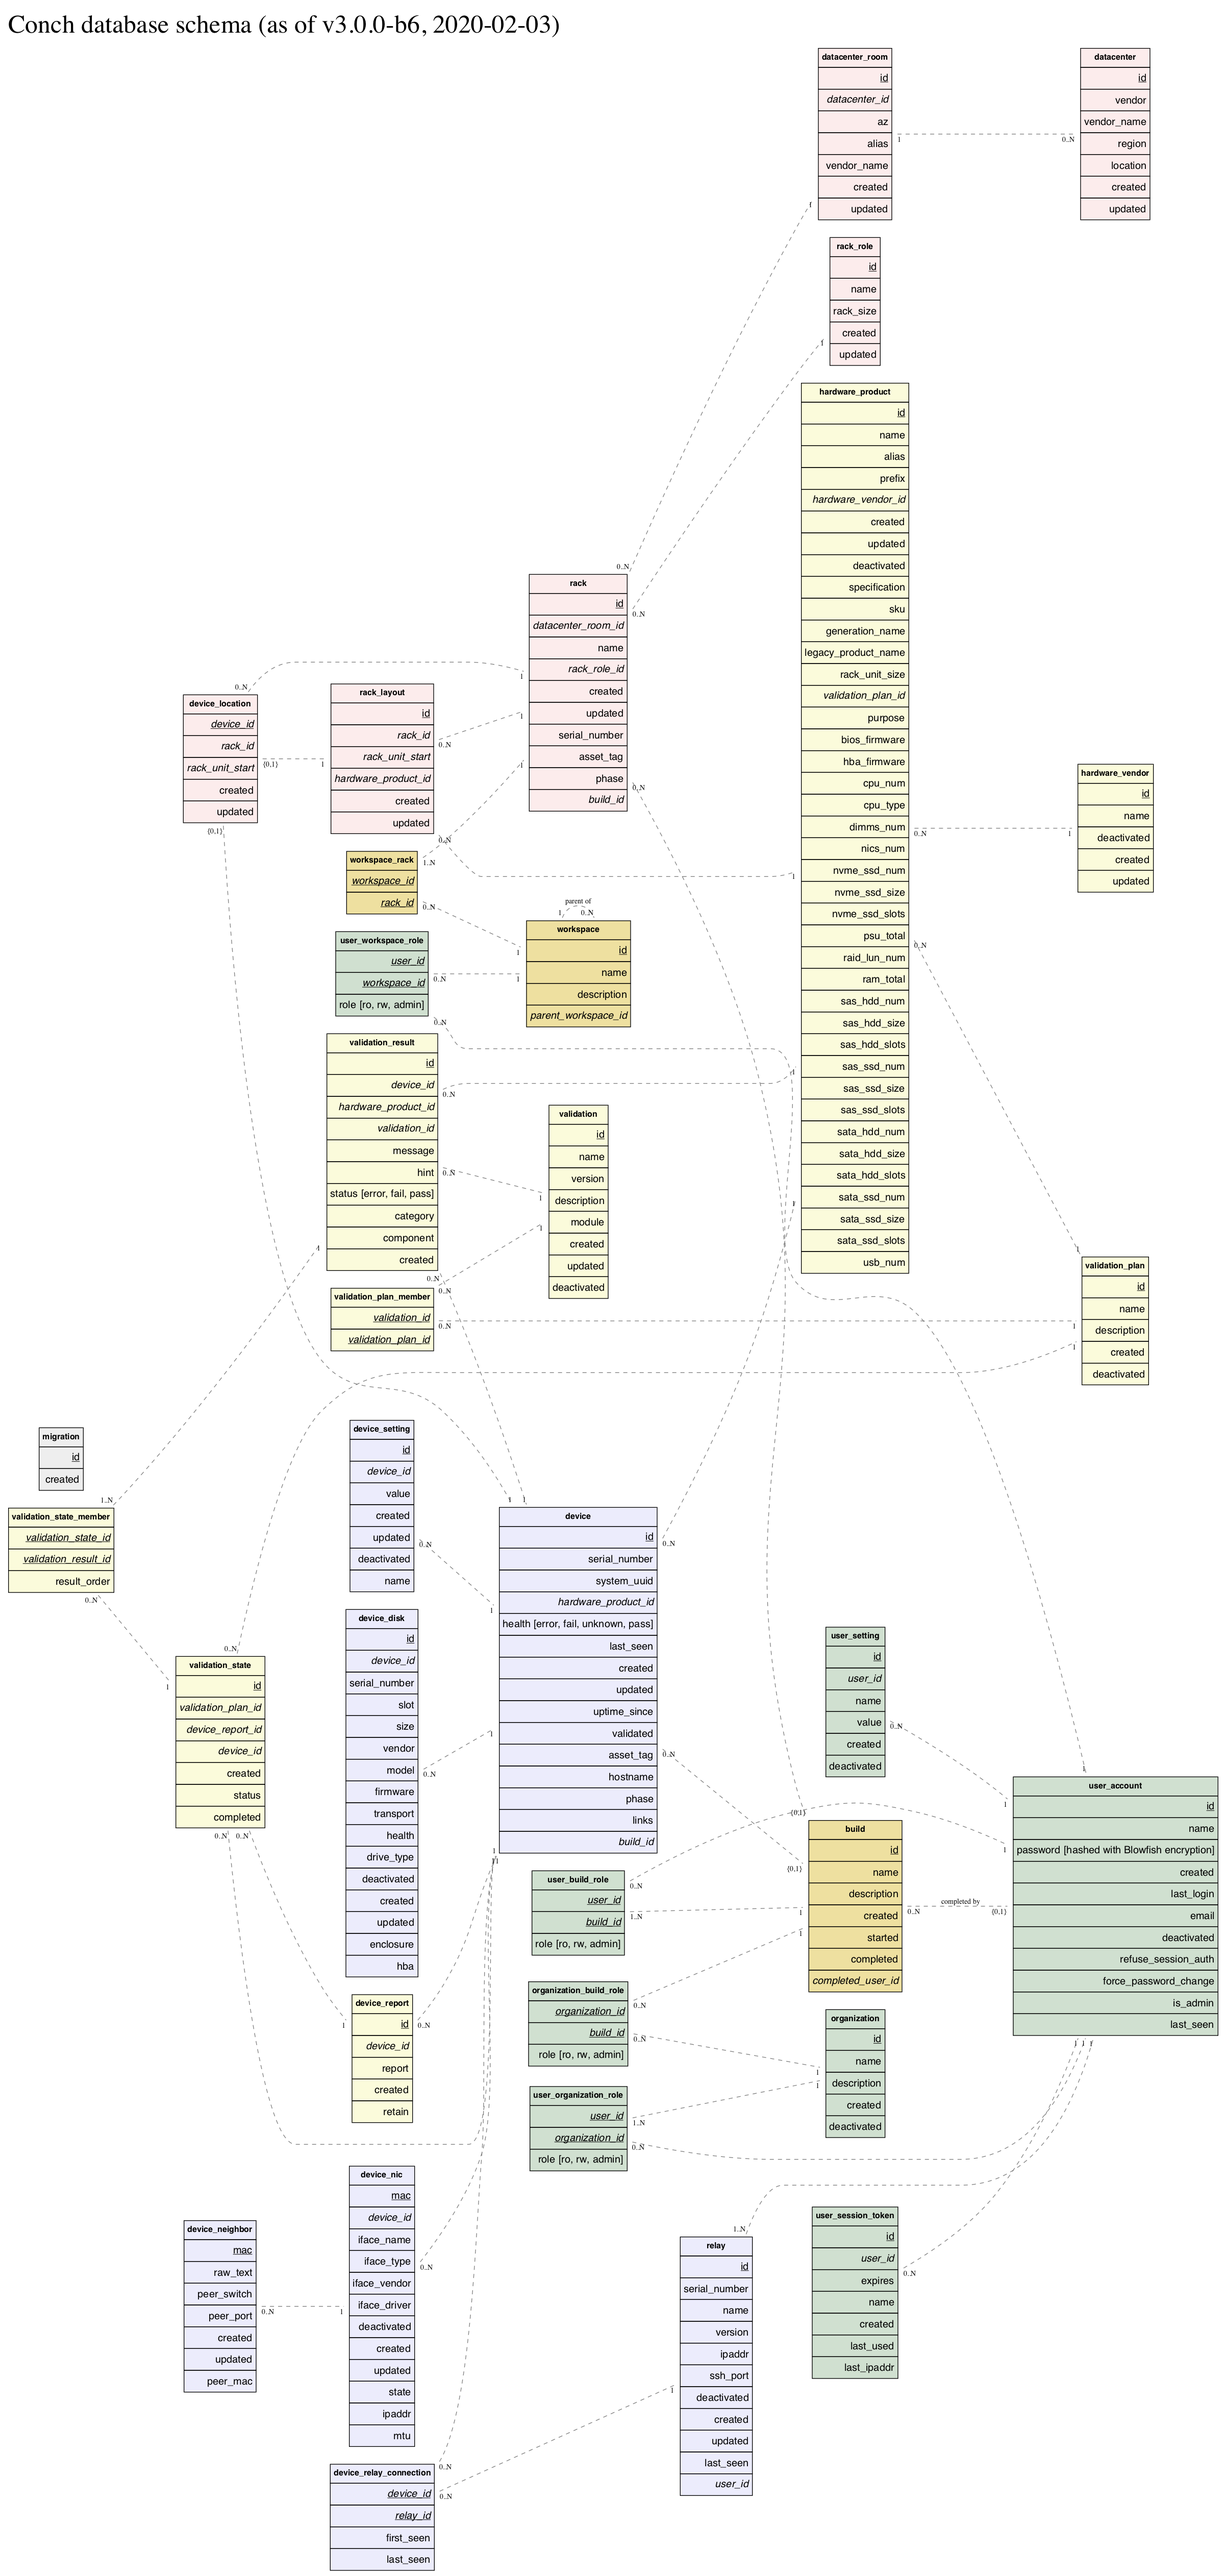
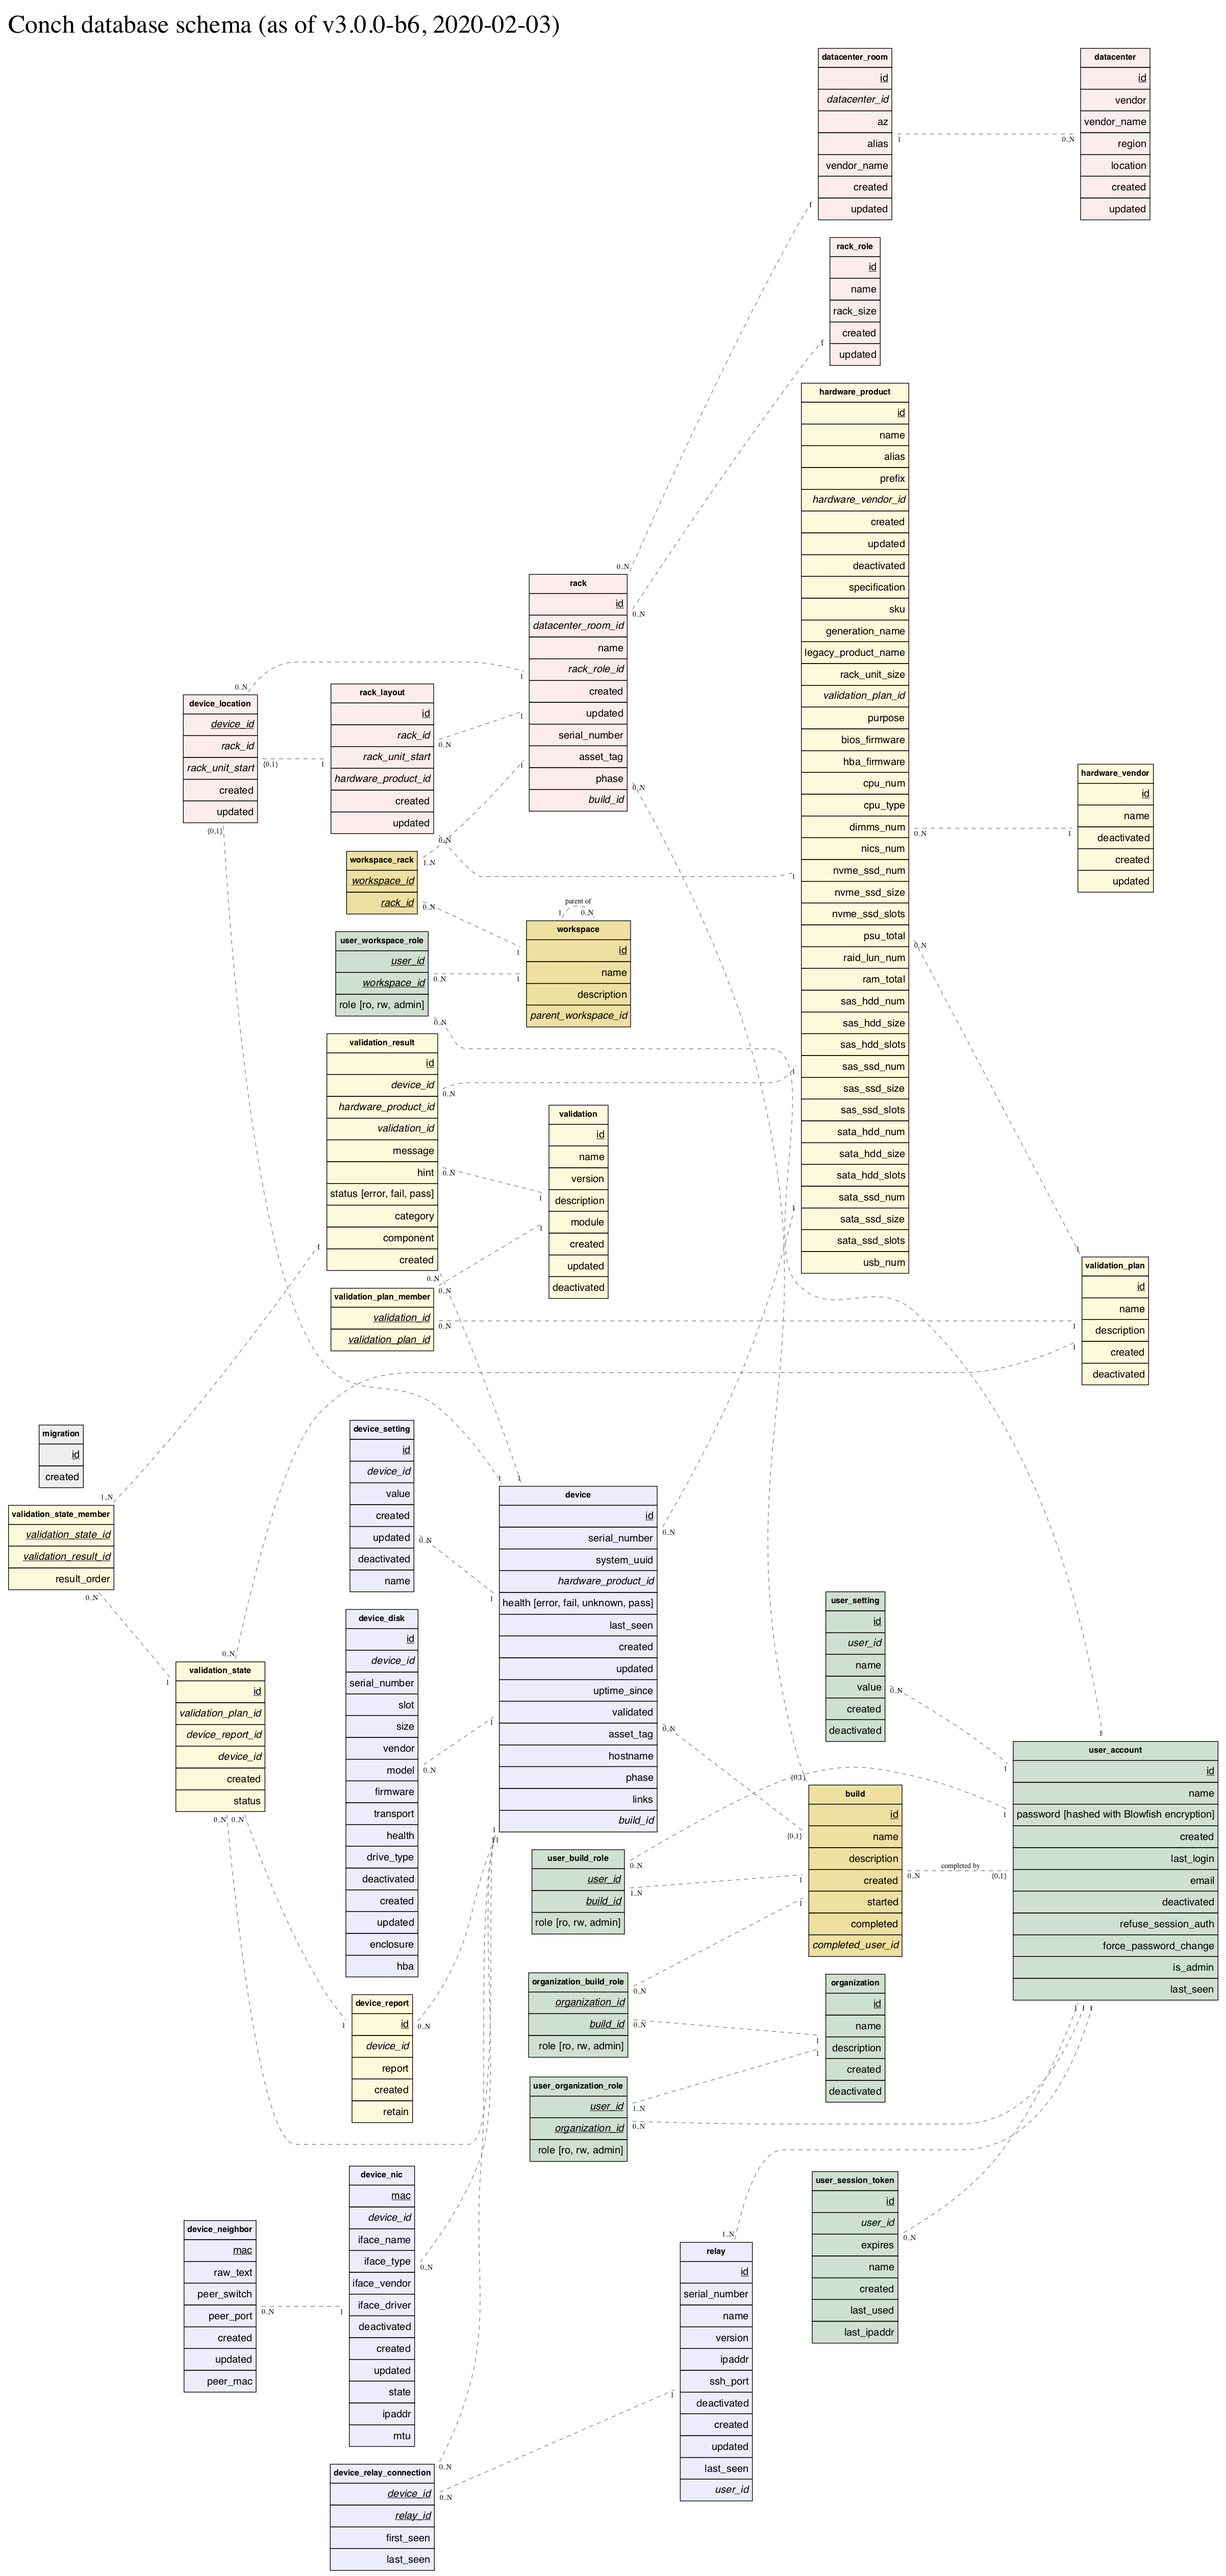
drop redundant column validation_state.completed
validation_state.completed is now not-nullable (since migration 0103), but it
hasn't been different from created in a long long time... it's time we let it
go.

diff --git a/docs/modules/Conch::DB::ResultSet::ValidationState.md b/docs/modules/Conch::DB::ResultSet::ValidationState.md
@@ -10,9 +10,9 @@ Interface to queries involving validation states.
 
 ## METHODS
 
-### latest\_completed\_state\_per\_plan
+### latest\_state\_per\_plan
 
-Generates a resultset that returns the single most recent **completed** validation\_state entry
+Generates a resultset that returns the single most recent validation\_state entry
 per validation plan (using whatever other search criteria are already in the resultset).
 
 The query will be closed off as a subselect (that additional chaining will SELECT FROM),

diff --git a/docs/modules/Conch::DB::Result::ValidationState.md b/docs/modules/Conch::DB::Result::ValidationState.md
@@ -45,13 +45,6 @@ extra: {custom_type_name => "validation_status_enum",list => ["error","fail","pa
 is_nullable: 0
 ```
 
-### completed
-
-```
-data_type: 'timestamp with time zone'
-is_nullable: 0
-```
-
 ### device\_report\_id
 
 ```
